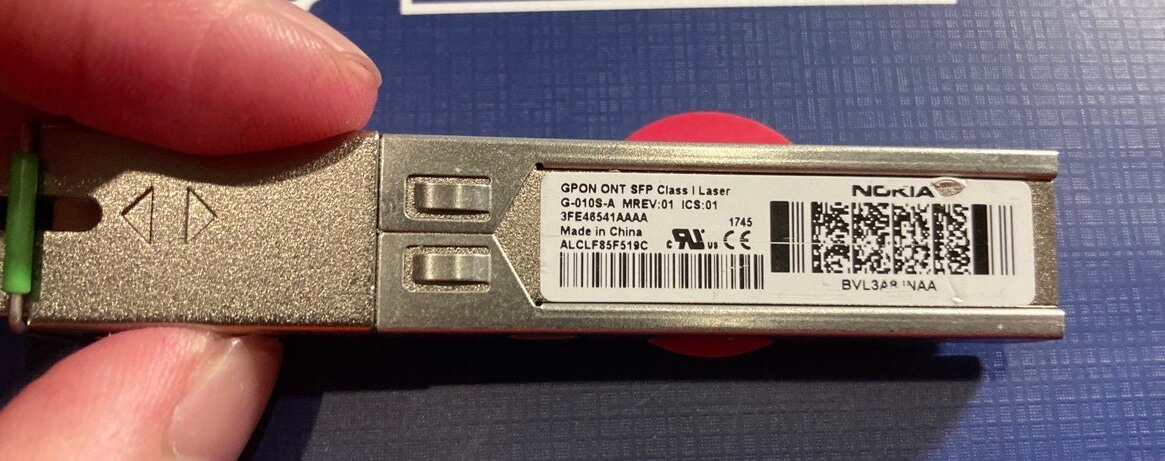
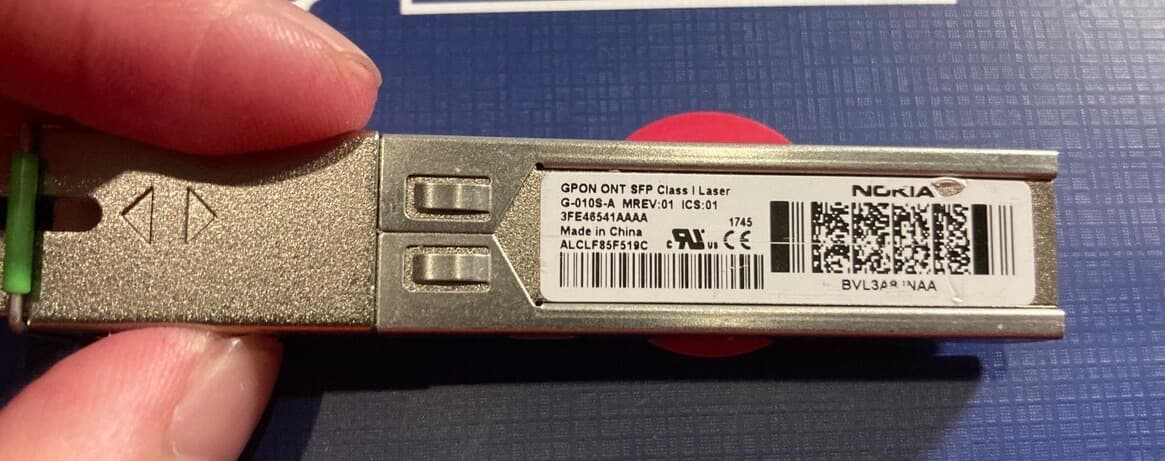
fix

diff --git a/content/page/about/index.md b/content/page/about/index.md
@@ -24,7 +24,7 @@ menu:
 
 - 双非大三蒟蒻，退役废铜烂铁XCPCer
 - 星际2曾经的国宗 战网ID:Spaceless#5104 | NS好友ID:SW-0298-7511-7319 | Steam好友ID:138379332
-- [TZHSOJ](https://tzhsoj.com) 的维护者（为了节约CDN钱屏蔽了非中国大陆IP访问）
+- [TZHSOJ](https://tzhsoj.com) 的维护者
 - 正在考研，大概就是想续费一下寒暑假
 - 简历可以在 LinkedIn 上找到，如果有大佬内推一下校招就好了qwq
 - [![Codeforces Rating](https://api.cubercsl.site/api/codeforces?user=ReiAC)](https://codeforces.com/profile/ReiAC) [![Codeforces Rating](https://api.cubercsl.site/api/codeforces?user=ACMagic)](https://codeforces.com/profile/ACMagic)

diff --git a/content/post/HomeLab2021/index.md b/content/post/HomeLab2021/index.md
@@ -53,7 +53,7 @@ description = "2021年末的家庭网络折腾"
 
 G-010S-A 这个猫棒，要按照上面给出的 [Nokia G-010S-A Pin 6 Issue (rsaxvc.net)](https://rsaxvc.net/blog/2020/8/15/Nokia_G-010S-A_Pin_6_Issue.html) 这篇里面进行一个改造，才能兼容我的 Intel X520-DA2 网卡，改完之后是这样的
 
-![](G-010S-A_mod.png)
+![](G-010S-A_mod.jpg)
 
 然后……然后就直接按 [hwti/G-010S-A](https://github.com/hwti/G-010S-A) 上直接配好 SN 和 Password 就行了，家里宽带光猫装机的时候我直接问师傅要了全部接入数据，也就没有破解光猫这种问题了捏
 

diff --git a/content/post/Ventoy_An_Interesting_Way_To_Create_USB_Boot_Disk/index.md b/content/post/Ventoy_An_Interesting_Way_To_Create_USB_Boot_Disk/index.md
@@ -43,4 +43,4 @@ https://github.com/ventoy/Ventoy
 > - Data nondestructive during version upgrade
 > - No need to update Ventoy when a new distro is released
 
-![avatar](ventoy.png)
+![avatar](ventoy.jpg)
